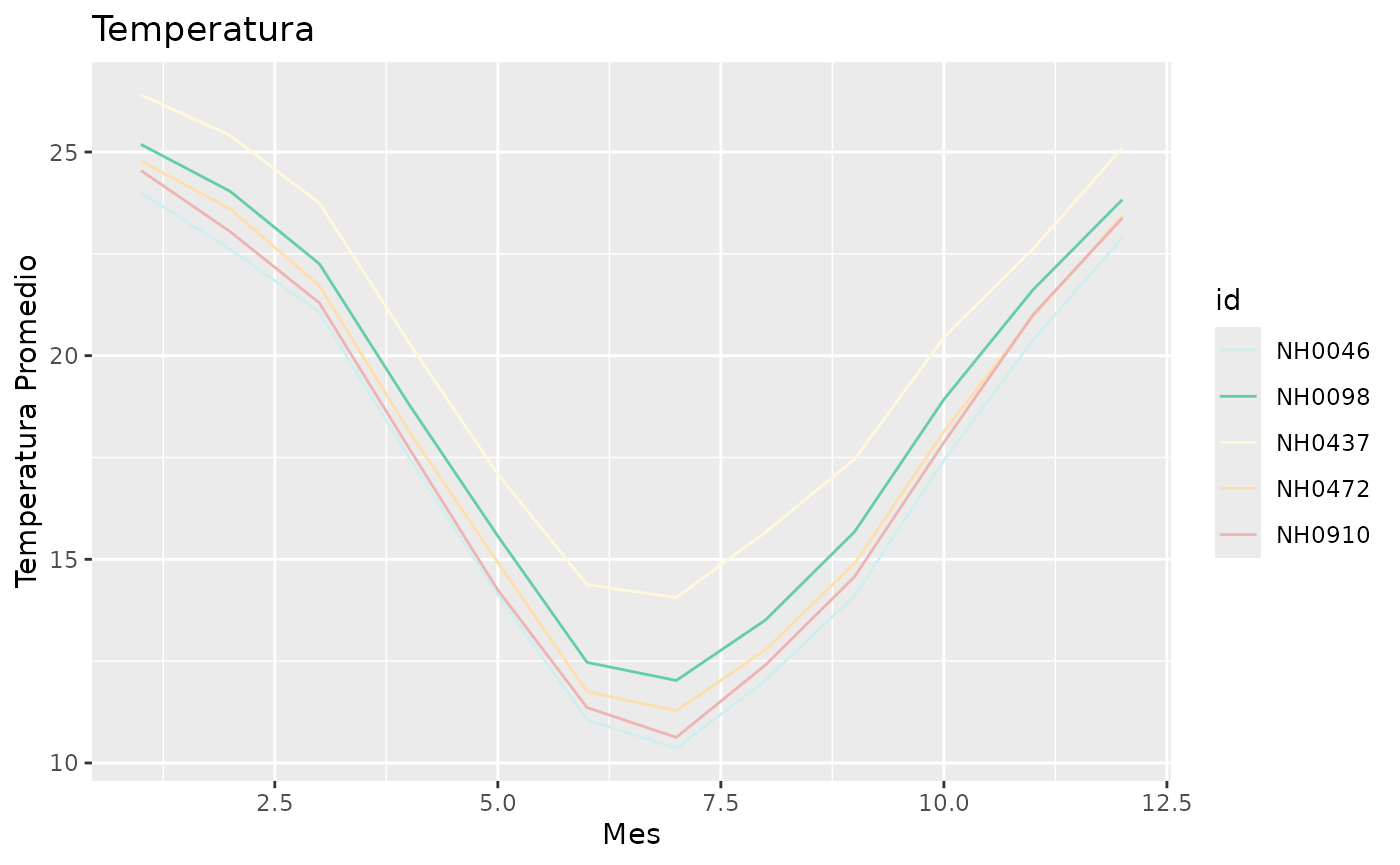
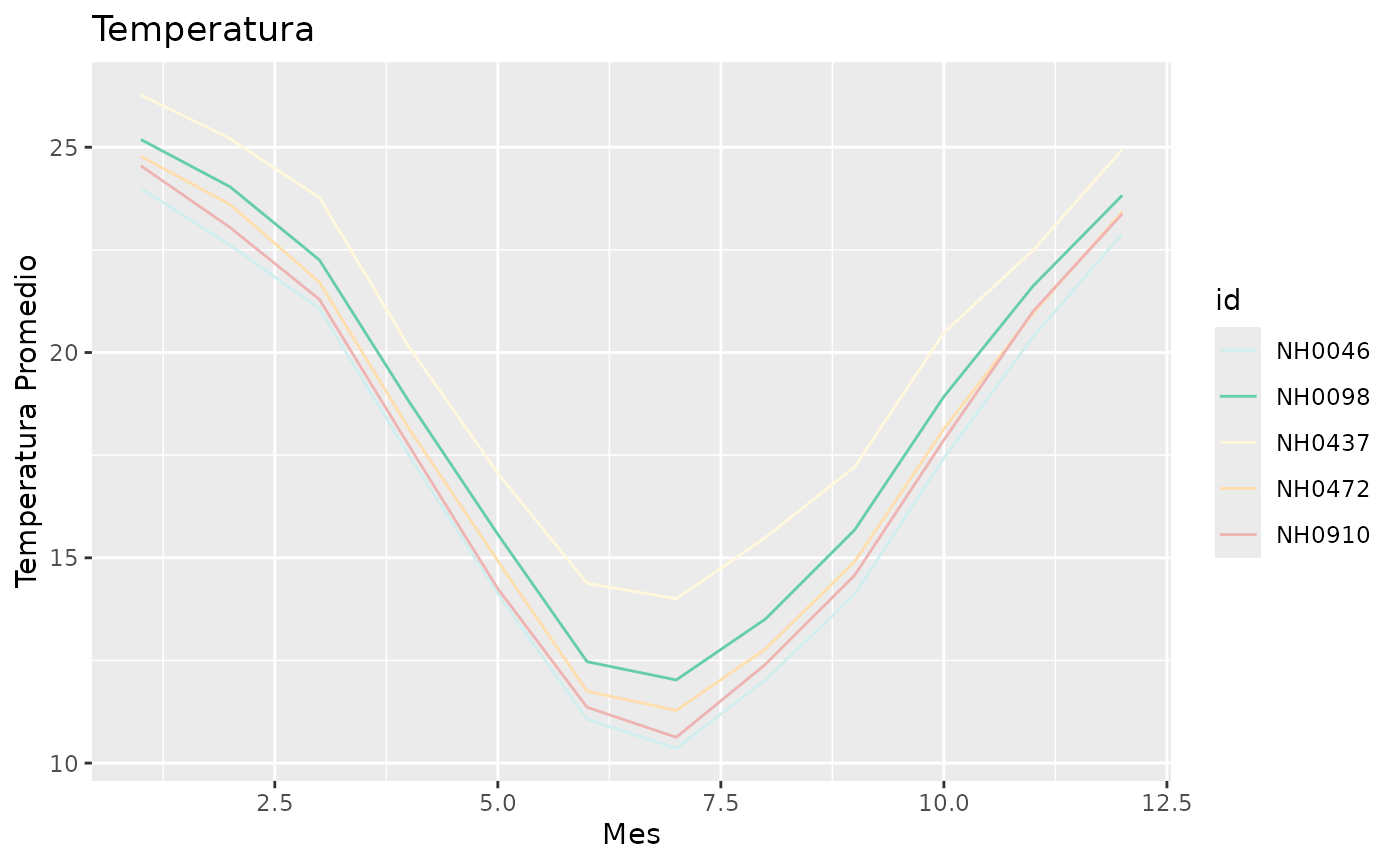
Deploying to gh-pages from @ marcosziadi/PaqueteMeteorologia@598c72016d4f62b6cc713afaff7f38ac89beb04d 🚀

diff --git a/reference/tabla_resumen_temperatura.html b/reference/tabla_resumen_temperatura.html
@@ -70,7 +70,7 @@
 <span class="r-out co"><span class="r-pr">#&gt;</span>   <span style="color: #949494; font-style: italic;">&lt;chr&gt;</span>     <span style="color: #949494; font-style: italic;">&lt;dbl&gt;</span>    <span style="color: #949494; font-style: italic;">&lt;dbl&gt;</span>     <span style="color: #949494; font-style: italic;">&lt;dbl&gt;</span></span>
 <span class="r-out co"><span class="r-pr">#&gt;</span> <span style="color: #BCBCBC;">1</span> NH0046    -<span style="color: #BB0000;">0.25</span>     34.6      17.3</span>
 <span class="r-out co"><span class="r-pr">#&gt;</span> <span style="color: #BCBCBC;">2</span> NH0098   -<span style="color: #BB0000;">17.4</span>      37.4      18.6</span>
-<span class="r-out co"><span class="r-pr">#&gt;</span> <span style="color: #BCBCBC;">3</span> NH0437     2.1      36.3      20.2</span>
+<span class="r-out co"><span class="r-pr">#&gt;</span> <span style="color: #BCBCBC;">3</span> NH0437     2.1      36.0      20.1</span>
 <span class="r-out co"><span class="r-pr">#&gt;</span> <span style="color: #BCBCBC;">4</span> NH0472     0.55     34.8      18.0</span>
 <span class="r-out co"><span class="r-pr">#&gt;</span> <span style="color: #BCBCBC;">5</span> NH0910     0        35.2      17.7</span>
 </code></pre></div>

diff --git a/articles/vinieta_1.html b/articles/vinieta_1.html
@@ -137,7 +137,7 @@ para una o más estaciones.</p>
 <span><span class="co">#&gt;   <span style="color: #949494; font-style: italic;">&lt;chr&gt;</span>     <span style="color: #949494; font-style: italic;">&lt;dbl&gt;</span>    <span style="color: #949494; font-style: italic;">&lt;dbl&gt;</span>     <span style="color: #949494; font-style: italic;">&lt;dbl&gt;</span></span></span>
 <span><span class="co">#&gt; <span style="color: #BCBCBC;">1</span> NH0046    -<span style="color: #BB0000;">0.25</span>     34.6      17.3</span></span>
 <span><span class="co">#&gt; <span style="color: #BCBCBC;">2</span> NH0098   -<span style="color: #BB0000;">17.4</span>      37.4      18.6</span></span>
-<span><span class="co">#&gt; <span style="color: #BCBCBC;">3</span> NH0437     2.1      36.3      20.2</span></span>
+<span><span class="co">#&gt; <span style="color: #BCBCBC;">3</span> NH0437     2.1      36.0      20.1</span></span>
 <span><span class="co">#&gt; <span style="color: #BCBCBC;">4</span> NH0472     0.55     34.8      18.0</span></span>
 <span><span class="co">#&gt; <span style="color: #BCBCBC;">5</span> NH0910     0        35.2      17.7</span></span></code></pre></div>
 </div>
